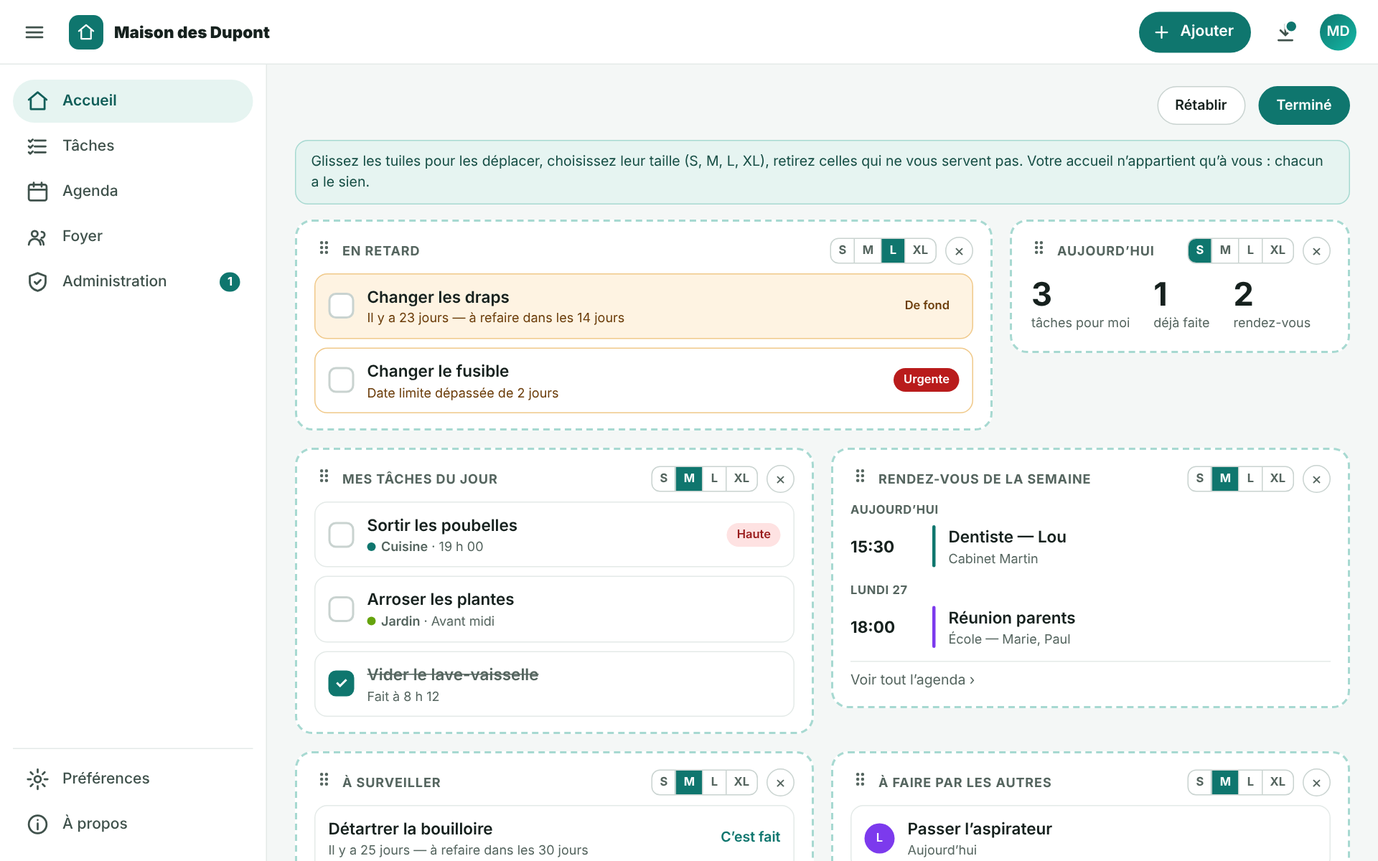
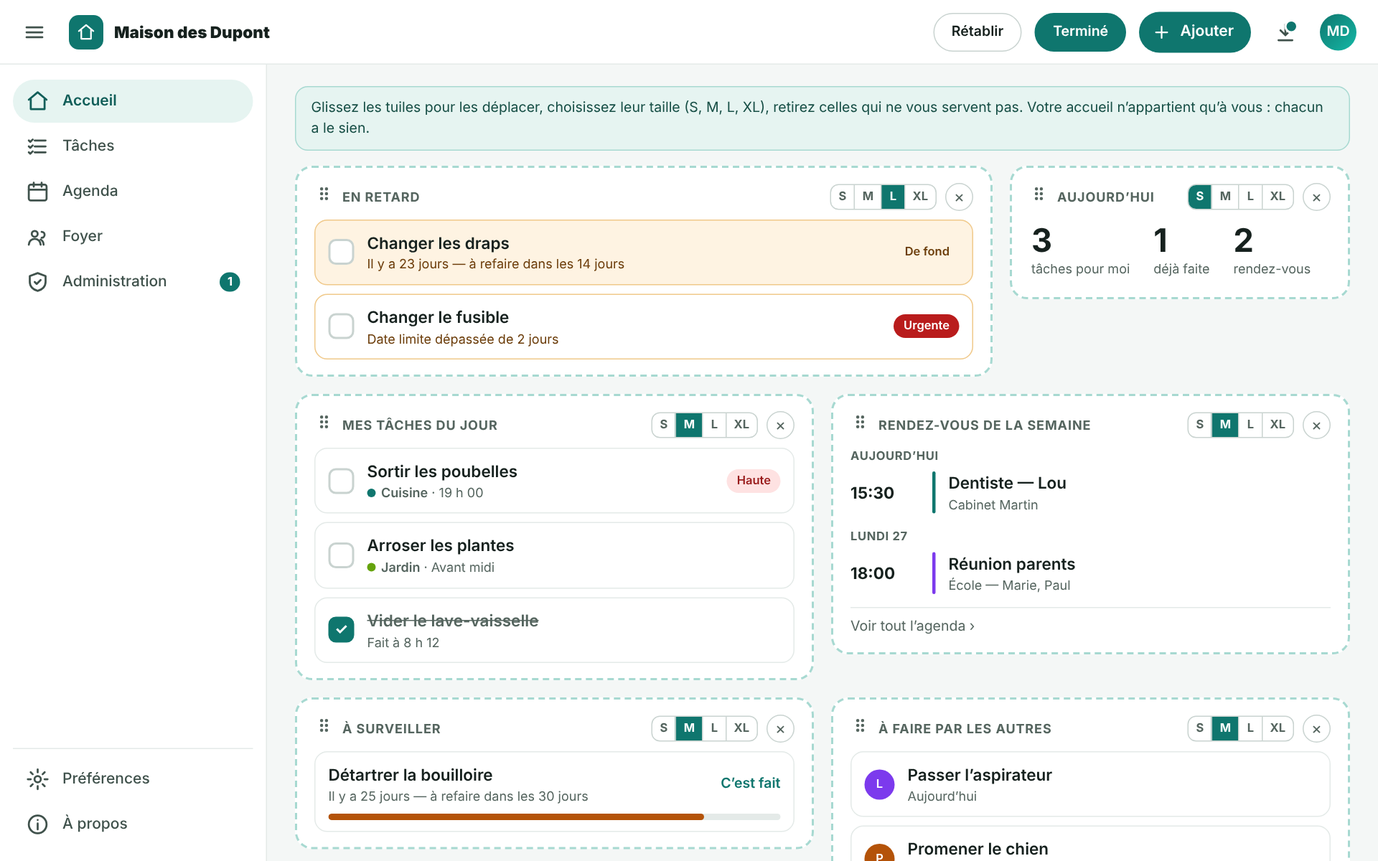
docs(maquettes web): les boutons de l'accueil dans la barre d'outils
Personnaliser, puis Rétablir et Terminé, à gauche d'Ajouter.

Claude-Session: https://claude.ai/code/session_01CwM8UZavZyFdh7jkANxEp5

diff --git a/docs/mockups/cadre/9-accueil-personnaliser.html b/docs/mockups/cadre/9-accueil-personnaliser.html
@@ -4,7 +4,7 @@
 <header class="barre">
   <div class="icone" title="Replier ou déplier le menu"><svg viewBox="0 0 24 24" width="22" height="22" fill="none" stroke="currentColor" stroke-width="2" stroke-linecap="round" stroke-linejoin="round"><path d="M4 7h16M4 12h16M4 17h16"/></svg></div>
   <div class="marque"><span class="logo"><svg viewBox="0 0 24 24" width="18" height="18" fill="none" stroke="currentColor" stroke-width="2" stroke-linecap="round" stroke-linejoin="round"><path d="M3 10.5 12 3l9 7.5"/><path d="M6 9.5V20h12V9.5"/></svg></span><b>Maison des Dupont</b></div>
-  <div class="ajouter"><svg viewBox="0 0 24 24" width="18" height="18" fill="none" stroke="currentColor" stroke-width="2" stroke-linecap="round" stroke-linejoin="round"><path d="M12 5v14M5 12h14"/></svg>Ajouter</div>
+  <span class="bouton">Rétablir</span><span class="bouton primaire">Terminé</span><div class="ajouter"><svg viewBox="0 0 24 24" width="18" height="18" fill="none" stroke="currentColor" stroke-width="2" stroke-linecap="round" stroke-linejoin="round"><path d="M12 5v14M5 12h14"/></svg>Ajouter</div>
   <div class="icone point" title="Mise à jour du serveur disponible"><svg viewBox="0 0 24 24" width="22" height="22" fill="none" stroke="currentColor" stroke-width="2" stroke-linecap="round" stroke-linejoin="round"><path d="M12 4v11M7 10l5 5 5-5M5 20h14"/></svg></div>
   <span class="photo">MD</span>
 </header><div class="dessous"><nav class="nav ">
@@ -12,5 +12,5 @@
   <a class=" point" href="#"><svg viewBox="0 0 24 24" width="22" height="22" fill="none" stroke="currentColor" stroke-width="2" stroke-linecap="round" stroke-linejoin="round"><path d="M12 3 4 6v6c0 4.5 3.4 8 8 9 4.6-1 8-4.5 8-9V6z"/><path d="m9 12 2 2 4-4"/></svg><span>Administration</span><span class="pastille">1</span></a>
   <div class="bas"><a class=" " href="#"><svg viewBox="0 0 24 24" width="22" height="22" fill="none" stroke="currentColor" stroke-width="2" stroke-linecap="round" stroke-linejoin="round"><circle cx="12" cy="12" r="3.2"/><path d="M12 2v3M12 19v3M2 12h3M19 12h3M4.9 4.9l2.1 2.1M17 17l2.1 2.1M4.9 19.1 7 17M17 7l2.1-2.1"/></svg><span>Préférences</span></a><a class=" " href="#"><svg viewBox="0 0 24 24" width="22" height="22" fill="none" stroke="currentColor" stroke-width="2" stroke-linecap="round" stroke-linejoin="round"><circle cx="12" cy="12" r="9"/><path d="M12 11v6M12 7.5h.01"/></svg><span>À propos</span></a></div>
   
-</nav><div class="principal"><main class="contenu" style="gap:14px;padding:20px 26px;overflow:hidden"><div class="entete-page" style="align-items:center"><span style="flex:1"></span><span class="bouton">Rétablir</span><span class="bouton primaire">Terminé</span></div><div class="bandeau-edition">Glissez les tuiles pour les déplacer, choisissez leur taille (S, M, L, XL), retirez celles qui ne vous servent pas. Votre accueil n’appartient qu’à vous : chacun a le sien.</div><div class="tuiles edition"><section class="tuile t8"><div class="tete"><span class="poignee"><svg viewBox="0 0 24 24" width="18" height="18" fill="none" stroke="currentColor" stroke-width="2" stroke-linecap="round" stroke-linejoin="round"><circle cx="9" cy="6" r="1"/><circle cx="15" cy="6" r="1"/><circle cx="9" cy="12" r="1"/><circle cx="15" cy="12" r="1"/><circle cx="9" cy="18" r="1"/><circle cx="15" cy="18" r="1"/></svg></span><h2>En retard</h2><div class="tailles"><span class="">S</span><span class="">M</span><span class="actif">L</span><span class="">XL</span></div><span class="retirer">×</span></div><div class="carte retard fond"><div class="ligne"><div class="case"></div><div style="flex:1;min-width:0"><h3>Changer les draps</h3><p class="muet alerte">Il y a 23 jours — à refaire dans les 14 jours</p></div><span class="etiquette fond">De fond</span></div></div><div class="carte retard"><div class="ligne"><div class="case"></div><div style="flex:1;min-width:0"><h3>Changer le fusible</h3><p class="muet alerte">Date limite dépassée de 2 jours</p></div><span class="etiquette urgente">Urgente</span></div></div></section><section class="tuile t4"><div class="tete"><span class="poignee"><svg viewBox="0 0 24 24" width="18" height="18" fill="none" stroke="currentColor" stroke-width="2" stroke-linecap="round" stroke-linejoin="round"><circle cx="9" cy="6" r="1"/><circle cx="15" cy="6" r="1"/><circle cx="9" cy="12" r="1"/><circle cx="15" cy="12" r="1"/><circle cx="9" cy="18" r="1"/><circle cx="15" cy="18" r="1"/></svg></span><h2>Aujourd’hui</h2><div class="tailles"><span class="actif">S</span><span class="">M</span><span class="">L</span><span class="">XL</span></div><span class="retirer">×</span></div><div class="ligne" style="gap:22px;padding:4px 2px"><div><div class="chiffre">3</div><p class="muet">tâches pour moi</p></div><div><div class="chiffre" style="color:var(--succes)">1</div><p class="muet">déjà faite</p></div><div><div class="chiffre">2</div><p class="muet">rendez-vous</p></div></div></section><section class="tuile t6"><div class="tete"><span class="poignee"><svg viewBox="0 0 24 24" width="18" height="18" fill="none" stroke="currentColor" stroke-width="2" stroke-linecap="round" stroke-linejoin="round"><circle cx="9" cy="6" r="1"/><circle cx="15" cy="6" r="1"/><circle cx="9" cy="12" r="1"/><circle cx="15" cy="12" r="1"/><circle cx="9" cy="18" r="1"/><circle cx="15" cy="18" r="1"/></svg></span><h2>Mes tâches du jour</h2><div class="tailles"><span class="">S</span><span class="actif">M</span><span class="">L</span><span class="">XL</span></div><span class="retirer">×</span></div><div class="carte"><div class="ligne"><div class="case"></div><div style="flex:1;min-width:0"><h3>Sortir les poubelles</h3><p class="muet "><span class="groupe-tache"><i style="background:#0F766E"></i>Cuisine</span> · 19 h 00</p></div><span class="etiquette haute">Haute</span></div></div><div class="carte"><div class="ligne"><div class="case"></div><div style="flex:1;min-width:0"><h3>Arroser les plantes</h3><p class="muet "><span class="groupe-tache"><i style="background:#65A30D"></i>Jardin</span> · Avant midi</p></div></div></div><div class="carte fait"><div class="ligne"><div class="case cochee">✓</div><div style="flex:1;min-width:0"><h3>Vider le lave-vaisselle</h3><p class="muet ">Fait à 8 h 12</p></div></div></div></section><section class="tuile t6"><div class="tete"><span class="poignee"><svg viewBox="0 0 24 24" width="18" height="18" fill="none" stroke="currentColor" stroke-width="2" stroke-linecap="round" stroke-linejoin="round"><circle cx="9" cy="6" r="1"/><circle cx="15" cy="6" r="1"/><circle cx="9" cy="12" r="1"/><circle cx="15" cy="12" r="1"/><circle cx="9" cy="18" r="1"/><circle cx="15" cy="18" r="1"/></svg></span><h2>Rendez-vous de la semaine</h2><div class="tailles"><span class="">S</span><span class="actif">M</span><span class="">L</span><span class="">XL</span></div><span class="retirer">×</span></div><div><div class="jour-rdv" style="padding-top:0">Aujourd’hui</div><div class="rdv"><span class="heure">15:30</span><span class="trait" style="background:#0F766E"></span><div><h3>Dentiste — Lou</h3><p class="muet">Cabinet Martin</p></div></div><div class="jour-rdv">Lundi 27</div><div class="rdv"><span class="heure">18:00</span><span class="trait" style="background:#7C3AED"></span><div><h3>Réunion parents</h3><p class="muet">École — Marie, Paul</p></div></div><div class="lien">Voir tout l’agenda ›</div></div></section><section class="tuile t6"><div class="tete"><span class="poignee"><svg viewBox="0 0 24 24" width="18" height="18" fill="none" stroke="currentColor" stroke-width="2" stroke-linecap="round" stroke-linejoin="round"><circle cx="9" cy="6" r="1"/><circle cx="15" cy="6" r="1"/><circle cx="9" cy="12" r="1"/><circle cx="15" cy="12" r="1"/><circle cx="9" cy="18" r="1"/><circle cx="15" cy="18" r="1"/></svg></span><h2>À surveiller</h2><div class="tailles"><span class="">S</span><span class="actif">M</span><span class="">L</span><span class="">XL</span></div><span class="retirer">×</span></div><div class="carte"><div class="ligne"><div style="flex:1"><h3>Détartrer la bouilloire</h3><p class="muet">Il y a 25 jours — à refaire dans les 30 jours</p></div><span style="font-size:13px;font-weight:600;color:var(--accent)">C’est fait</span></div><div class="jauge"><span style="width:83%;background:#B45309"></span></div></div></section><section class="tuile t6"><div class="tete"><span class="poignee"><svg viewBox="0 0 24 24" width="18" height="18" fill="none" stroke="currentColor" stroke-width="2" stroke-linecap="round" stroke-linejoin="round"><circle cx="9" cy="6" r="1"/><circle cx="15" cy="6" r="1"/><circle cx="9" cy="12" r="1"/><circle cx="15" cy="12" r="1"/><circle cx="9" cy="18" r="1"/><circle cx="15" cy="18" r="1"/></svg></span><h2>À faire par les autres</h2><div class="tailles"><span class="">S</span><span class="actif">M</span><span class="">L</span><span class="">XL</span></div><span class="retirer">×</span></div><div class="carte"><div class="ligne"><span class="photo" style="width:28px;height:28px;font-size:11px;background:#7C3AED">L</span><div style="flex:1"><h3>Passer l’aspirateur</h3><p class="muet">Aujourd’hui</p></div></div></div><div class="carte"><div class="ligne"><span class="photo" style="width:28px;height:28px;font-size:11px;background:#B45309">P</span><div style="flex:1"><h3>Promener le chien</h3><p class="muet">18 h 30</p></div></div></div></section><div class="ajout-tuile"><span style="font-size:26px;line-height:1">+</span>Ajouter une tuile</div></div></main></div></div>
+</nav><div class="principal"><main class="contenu" style="gap:14px;padding:20px 26px;overflow:hidden"><div class="bandeau-edition">Glissez les tuiles pour les déplacer, choisissez leur taille (S, M, L, XL), retirez celles qui ne vous servent pas. Votre accueil n’appartient qu’à vous : chacun a le sien.</div><div class="tuiles edition"><section class="tuile t8"><div class="tete"><span class="poignee"><svg viewBox="0 0 24 24" width="18" height="18" fill="none" stroke="currentColor" stroke-width="2" stroke-linecap="round" stroke-linejoin="round"><circle cx="9" cy="6" r="1"/><circle cx="15" cy="6" r="1"/><circle cx="9" cy="12" r="1"/><circle cx="15" cy="12" r="1"/><circle cx="9" cy="18" r="1"/><circle cx="15" cy="18" r="1"/></svg></span><h2>En retard</h2><div class="tailles"><span class="">S</span><span class="">M</span><span class="actif">L</span><span class="">XL</span></div><span class="retirer">×</span></div><div class="carte retard fond"><div class="ligne"><div class="case"></div><div style="flex:1;min-width:0"><h3>Changer les draps</h3><p class="muet alerte">Il y a 23 jours — à refaire dans les 14 jours</p></div><span class="etiquette fond">De fond</span></div></div><div class="carte retard"><div class="ligne"><div class="case"></div><div style="flex:1;min-width:0"><h3>Changer le fusible</h3><p class="muet alerte">Date limite dépassée de 2 jours</p></div><span class="etiquette urgente">Urgente</span></div></div></section><section class="tuile t4"><div class="tete"><span class="poignee"><svg viewBox="0 0 24 24" width="18" height="18" fill="none" stroke="currentColor" stroke-width="2" stroke-linecap="round" stroke-linejoin="round"><circle cx="9" cy="6" r="1"/><circle cx="15" cy="6" r="1"/><circle cx="9" cy="12" r="1"/><circle cx="15" cy="12" r="1"/><circle cx="9" cy="18" r="1"/><circle cx="15" cy="18" r="1"/></svg></span><h2>Aujourd’hui</h2><div class="tailles"><span class="actif">S</span><span class="">M</span><span class="">L</span><span class="">XL</span></div><span class="retirer">×</span></div><div class="ligne" style="gap:22px;padding:4px 2px"><div><div class="chiffre">3</div><p class="muet">tâches pour moi</p></div><div><div class="chiffre" style="color:var(--succes)">1</div><p class="muet">déjà faite</p></div><div><div class="chiffre">2</div><p class="muet">rendez-vous</p></div></div></section><section class="tuile t6"><div class="tete"><span class="poignee"><svg viewBox="0 0 24 24" width="18" height="18" fill="none" stroke="currentColor" stroke-width="2" stroke-linecap="round" stroke-linejoin="round"><circle cx="9" cy="6" r="1"/><circle cx="15" cy="6" r="1"/><circle cx="9" cy="12" r="1"/><circle cx="15" cy="12" r="1"/><circle cx="9" cy="18" r="1"/><circle cx="15" cy="18" r="1"/></svg></span><h2>Mes tâches du jour</h2><div class="tailles"><span class="">S</span><span class="actif">M</span><span class="">L</span><span class="">XL</span></div><span class="retirer">×</span></div><div class="carte"><div class="ligne"><div class="case"></div><div style="flex:1;min-width:0"><h3>Sortir les poubelles</h3><p class="muet "><span class="groupe-tache"><i style="background:#0F766E"></i>Cuisine</span> · 19 h 00</p></div><span class="etiquette haute">Haute</span></div></div><div class="carte"><div class="ligne"><div class="case"></div><div style="flex:1;min-width:0"><h3>Arroser les plantes</h3><p class="muet "><span class="groupe-tache"><i style="background:#65A30D"></i>Jardin</span> · Avant midi</p></div></div></div><div class="carte fait"><div class="ligne"><div class="case cochee">✓</div><div style="flex:1;min-width:0"><h3>Vider le lave-vaisselle</h3><p class="muet ">Fait à 8 h 12</p></div></div></div></section><section class="tuile t6"><div class="tete"><span class="poignee"><svg viewBox="0 0 24 24" width="18" height="18" fill="none" stroke="currentColor" stroke-width="2" stroke-linecap="round" stroke-linejoin="round"><circle cx="9" cy="6" r="1"/><circle cx="15" cy="6" r="1"/><circle cx="9" cy="12" r="1"/><circle cx="15" cy="12" r="1"/><circle cx="9" cy="18" r="1"/><circle cx="15" cy="18" r="1"/></svg></span><h2>Rendez-vous de la semaine</h2><div class="tailles"><span class="">S</span><span class="actif">M</span><span class="">L</span><span class="">XL</span></div><span class="retirer">×</span></div><div><div class="jour-rdv" style="padding-top:0">Aujourd’hui</div><div class="rdv"><span class="heure">15:30</span><span class="trait" style="background:#0F766E"></span><div><h3>Dentiste — Lou</h3><p class="muet">Cabinet Martin</p></div></div><div class="jour-rdv">Lundi 27</div><div class="rdv"><span class="heure">18:00</span><span class="trait" style="background:#7C3AED"></span><div><h3>Réunion parents</h3><p class="muet">École — Marie, Paul</p></div></div><div class="lien">Voir tout l’agenda ›</div></div></section><section class="tuile t6"><div class="tete"><span class="poignee"><svg viewBox="0 0 24 24" width="18" height="18" fill="none" stroke="currentColor" stroke-width="2" stroke-linecap="round" stroke-linejoin="round"><circle cx="9" cy="6" r="1"/><circle cx="15" cy="6" r="1"/><circle cx="9" cy="12" r="1"/><circle cx="15" cy="12" r="1"/><circle cx="9" cy="18" r="1"/><circle cx="15" cy="18" r="1"/></svg></span><h2>À surveiller</h2><div class="tailles"><span class="">S</span><span class="actif">M</span><span class="">L</span><span class="">XL</span></div><span class="retirer">×</span></div><div class="carte"><div class="ligne"><div style="flex:1"><h3>Détartrer la bouilloire</h3><p class="muet">Il y a 25 jours — à refaire dans les 30 jours</p></div><span style="font-size:13px;font-weight:600;color:var(--accent)">C’est fait</span></div><div class="jauge"><span style="width:83%;background:#B45309"></span></div></div></section><section class="tuile t6"><div class="tete"><span class="poignee"><svg viewBox="0 0 24 24" width="18" height="18" fill="none" stroke="currentColor" stroke-width="2" stroke-linecap="round" stroke-linejoin="round"><circle cx="9" cy="6" r="1"/><circle cx="15" cy="6" r="1"/><circle cx="9" cy="12" r="1"/><circle cx="15" cy="12" r="1"/><circle cx="9" cy="18" r="1"/><circle cx="15" cy="18" r="1"/></svg></span><h2>À faire par les autres</h2><div class="tailles"><span class="">S</span><span class="actif">M</span><span class="">L</span><span class="">XL</span></div><span class="retirer">×</span></div><div class="carte"><div class="ligne"><span class="photo" style="width:28px;height:28px;font-size:11px;background:#7C3AED">L</span><div style="flex:1"><h3>Passer l’aspirateur</h3><p class="muet">Aujourd’hui</p></div></div></div><div class="carte"><div class="ligne"><span class="photo" style="width:28px;height:28px;font-size:11px;background:#B45309">P</span><div style="flex:1"><h3>Promener le chien</h3><p class="muet">18 h 30</p></div></div></div></section><div class="ajout-tuile"><span style="font-size:26px;line-height:1">+</span>Ajouter une tuile</div></div></main></div></div>
 </body></html>

diff --git a/docs/mockups/cadre/8-accueil-tuiles.html b/docs/mockups/cadre/8-accueil-tuiles.html
@@ -4,7 +4,7 @@
 <header class="barre">
   <div class="icone" title="Replier ou déplier le menu"><svg viewBox="0 0 24 24" width="22" height="22" fill="none" stroke="currentColor" stroke-width="2" stroke-linecap="round" stroke-linejoin="round"><path d="M4 7h16M4 12h16M4 17h16"/></svg></div>
   <div class="marque"><span class="logo"><svg viewBox="0 0 24 24" width="18" height="18" fill="none" stroke="currentColor" stroke-width="2" stroke-linecap="round" stroke-linejoin="round"><path d="M3 10.5 12 3l9 7.5"/><path d="M6 9.5V20h12V9.5"/></svg></span><b>Maison des Dupont</b></div>
-  <div class="ajouter"><svg viewBox="0 0 24 24" width="18" height="18" fill="none" stroke="currentColor" stroke-width="2" stroke-linecap="round" stroke-linejoin="round"><path d="M12 5v14M5 12h14"/></svg>Ajouter</div>
+  <span class="personnaliser"><svg viewBox="0 0 24 24" width="16" height="16" fill="none" stroke="currentColor" stroke-width="2" stroke-linecap="round" stroke-linejoin="round"><path d="M4 20h4L19 9l-4-4L4 16z"/></svg>Personnaliser</span><div class="ajouter"><svg viewBox="0 0 24 24" width="18" height="18" fill="none" stroke="currentColor" stroke-width="2" stroke-linecap="round" stroke-linejoin="round"><path d="M12 5v14M5 12h14"/></svg>Ajouter</div>
   <div class="icone point" title="Mise à jour du serveur disponible"><svg viewBox="0 0 24 24" width="22" height="22" fill="none" stroke="currentColor" stroke-width="2" stroke-linecap="round" stroke-linejoin="round"><path d="M12 4v11M7 10l5 5 5-5M5 20h14"/></svg></div>
   <span class="photo">MD</span>
 </header><div class="dessous"><nav class="nav ">
@@ -12,5 +12,5 @@
   <a class=" point" href="#"><svg viewBox="0 0 24 24" width="22" height="22" fill="none" stroke="currentColor" stroke-width="2" stroke-linecap="round" stroke-linejoin="round"><path d="M12 3 4 6v6c0 4.5 3.4 8 8 9 4.6-1 8-4.5 8-9V6z"/><path d="m9 12 2 2 4-4"/></svg><span>Administration</span><span class="pastille">1</span></a>
   <div class="bas"><a class=" " href="#"><svg viewBox="0 0 24 24" width="22" height="22" fill="none" stroke="currentColor" stroke-width="2" stroke-linecap="round" stroke-linejoin="round"><circle cx="12" cy="12" r="3.2"/><path d="M12 2v3M12 19v3M2 12h3M19 12h3M4.9 4.9l2.1 2.1M17 17l2.1 2.1M4.9 19.1 7 17M17 7l2.1-2.1"/></svg><span>Préférences</span></a><a class=" " href="#"><svg viewBox="0 0 24 24" width="22" height="22" fill="none" stroke="currentColor" stroke-width="2" stroke-linecap="round" stroke-linejoin="round"><circle cx="12" cy="12" r="9"/><path d="M12 11v6M12 7.5h.01"/></svg><span>À propos</span></a></div>
   
-</nav><div class="principal"><main class="contenu" style="gap:14px;padding:20px 26px;overflow:hidden"><div class="entete-page" style="align-items:center"><span style="flex:1"></span><span class="personnaliser"><svg viewBox="0 0 24 24" width="16" height="16" fill="none" stroke="currentColor" stroke-width="2" stroke-linecap="round" stroke-linejoin="round"><path d="M4 20h4L19 9l-4-4L4 16z"/></svg>Personnaliser</span></div><div class="tuiles"><section class="tuile t8"><div class="tete"><h2>En retard</h2><span class="compte">2</span></div><div class="carte retard fond"><div class="ligne"><div class="case"></div><div style="flex:1;min-width:0"><h3>Changer les draps</h3><p class="muet alerte">Il y a 23 jours — à refaire dans les 14 jours</p></div><span class="etiquette fond">De fond</span></div></div><div class="carte retard"><div class="ligne"><div class="case"></div><div style="flex:1;min-width:0"><h3>Changer le fusible</h3><p class="muet alerte">Date limite dépassée de 2 jours</p></div><span class="etiquette urgente">Urgente</span></div></div></section><section class="tuile t4"><div class="tete"><h2>Aujourd’hui</h2><span class="compte"></span></div><div class="ligne" style="gap:22px;padding:4px 2px"><div><div class="chiffre">3</div><p class="muet">tâches pour moi</p></div><div><div class="chiffre" style="color:var(--succes)">1</div><p class="muet">déjà faite</p></div><div><div class="chiffre">2</div><p class="muet">rendez-vous</p></div></div></section><section class="tuile t6"><div class="tete"><h2>Mes tâches du jour</h2><span class="compte">3</span></div><div class="carte"><div class="ligne"><div class="case"></div><div style="flex:1;min-width:0"><h3>Sortir les poubelles</h3><p class="muet "><span class="groupe-tache"><i style="background:#0F766E"></i>Cuisine</span> · 19 h 00</p></div><span class="etiquette haute">Haute</span></div></div><div class="carte"><div class="ligne"><div class="case"></div><div style="flex:1;min-width:0"><h3>Arroser les plantes</h3><p class="muet "><span class="groupe-tache"><i style="background:#65A30D"></i>Jardin</span> · Avant midi</p></div></div></div><div class="carte fait"><div class="ligne"><div class="case cochee">✓</div><div style="flex:1;min-width:0"><h3>Vider le lave-vaisselle</h3><p class="muet ">Fait à 8 h 12</p></div></div></div></section><section class="tuile t6"><div class="tete"><h2>Rendez-vous de la semaine</h2><span class="compte"></span></div><div><div class="jour-rdv" style="padding-top:0">Aujourd’hui</div><div class="rdv"><span class="heure">15:30</span><span class="trait" style="background:#0F766E"></span><div><h3>Dentiste — Lou</h3><p class="muet">Cabinet Martin</p></div></div><div class="jour-rdv">Lundi 27</div><div class="rdv"><span class="heure">18:00</span><span class="trait" style="background:#7C3AED"></span><div><h3>Réunion parents</h3><p class="muet">École — Marie, Paul</p></div></div><div class="lien">Voir tout l’agenda ›</div></div></section><section class="tuile t6"><div class="tete"><h2>À surveiller</h2><span class="compte">1</span></div><div class="carte"><div class="ligne"><div style="flex:1"><h3>Détartrer la bouilloire</h3><p class="muet">Il y a 25 jours — à refaire dans les 30 jours</p></div><span style="font-size:13px;font-weight:600;color:var(--accent)">C’est fait</span></div><div class="jauge"><span style="width:83%;background:#B45309"></span></div></div></section><section class="tuile t6"><div class="tete"><h2>À faire par les autres</h2><span class="compte">2</span></div><div class="carte"><div class="ligne"><span class="photo" style="width:28px;height:28px;font-size:11px;background:#7C3AED">L</span><div style="flex:1"><h3>Passer l’aspirateur</h3><p class="muet">Aujourd’hui</p></div></div></div><div class="carte"><div class="ligne"><span class="photo" style="width:28px;height:28px;font-size:11px;background:#B45309">P</span><div style="flex:1"><h3>Promener le chien</h3><p class="muet">18 h 30</p></div></div></div></section></div></main></div></div>
+</nav><div class="principal"><main class="contenu" style="gap:14px;padding:20px 26px;overflow:hidden"><div class="tuiles"><section class="tuile t8"><div class="tete"><h2>En retard</h2><span class="compte">2</span></div><div class="carte retard fond"><div class="ligne"><div class="case"></div><div style="flex:1;min-width:0"><h3>Changer les draps</h3><p class="muet alerte">Il y a 23 jours — à refaire dans les 14 jours</p></div><span class="etiquette fond">De fond</span></div></div><div class="carte retard"><div class="ligne"><div class="case"></div><div style="flex:1;min-width:0"><h3>Changer le fusible</h3><p class="muet alerte">Date limite dépassée de 2 jours</p></div><span class="etiquette urgente">Urgente</span></div></div></section><section class="tuile t4"><div class="tete"><h2>Aujourd’hui</h2><span class="compte"></span></div><div class="ligne" style="gap:22px;padding:4px 2px"><div><div class="chiffre">3</div><p class="muet">tâches pour moi</p></div><div><div class="chiffre" style="color:var(--succes)">1</div><p class="muet">déjà faite</p></div><div><div class="chiffre">2</div><p class="muet">rendez-vous</p></div></div></section><section class="tuile t6"><div class="tete"><h2>Mes tâches du jour</h2><span class="compte">3</span></div><div class="carte"><div class="ligne"><div class="case"></div><div style="flex:1;min-width:0"><h3>Sortir les poubelles</h3><p class="muet "><span class="groupe-tache"><i style="background:#0F766E"></i>Cuisine</span> · 19 h 00</p></div><span class="etiquette haute">Haute</span></div></div><div class="carte"><div class="ligne"><div class="case"></div><div style="flex:1;min-width:0"><h3>Arroser les plantes</h3><p class="muet "><span class="groupe-tache"><i style="background:#65A30D"></i>Jardin</span> · Avant midi</p></div></div></div><div class="carte fait"><div class="ligne"><div class="case cochee">✓</div><div style="flex:1;min-width:0"><h3>Vider le lave-vaisselle</h3><p class="muet ">Fait à 8 h 12</p></div></div></div></section><section class="tuile t6"><div class="tete"><h2>Rendez-vous de la semaine</h2><span class="compte"></span></div><div><div class="jour-rdv" style="padding-top:0">Aujourd’hui</div><div class="rdv"><span class="heure">15:30</span><span class="trait" style="background:#0F766E"></span><div><h3>Dentiste — Lou</h3><p class="muet">Cabinet Martin</p></div></div><div class="jour-rdv">Lundi 27</div><div class="rdv"><span class="heure">18:00</span><span class="trait" style="background:#7C3AED"></span><div><h3>Réunion parents</h3><p class="muet">École — Marie, Paul</p></div></div><div class="lien">Voir tout l’agenda ›</div></div></section><section class="tuile t6"><div class="tete"><h2>À surveiller</h2><span class="compte">1</span></div><div class="carte"><div class="ligne"><div style="flex:1"><h3>Détartrer la bouilloire</h3><p class="muet">Il y a 25 jours — à refaire dans les 30 jours</p></div><span style="font-size:13px;font-weight:600;color:var(--accent)">C’est fait</span></div><div class="jauge"><span style="width:83%;background:#B45309"></span></div></div></section><section class="tuile t6"><div class="tete"><h2>À faire par les autres</h2><span class="compte">2</span></div><div class="carte"><div class="ligne"><span class="photo" style="width:28px;height:28px;font-size:11px;background:#7C3AED">L</span><div style="flex:1"><h3>Passer l’aspirateur</h3><p class="muet">Aujourd’hui</p></div></div></div><div class="carte"><div class="ligne"><span class="photo" style="width:28px;height:28px;font-size:11px;background:#B45309">P</span><div style="flex:1"><h3>Promener le chien</h3><p class="muet">18 h 30</p></div></div></div></section></div></main></div></div>
 </body></html>

diff --git a/docs/mockups/cadre/README.md b/docs/mockups/cadre/README.md
@@ -28,7 +28,9 @@ node docs/mockups/cadre/rendre.js   # 1280 × 800 pour l'ordinateur, 390 × 844 
   n'apparaît qu'aux comptes qui ont au moins un de ces droits, et chaque rubrique
   seulement à qui en a le droit — absente, pas grisée.
 - **L'accueil est fait de tuiles**, que chacun dispose à sa façon : l'ordre, la
-  taille et les tuiles affichées appartiennent au compte, pas au foyer.
+  taille et les tuiles affichées appartiennent au compte, pas au foyer. Ses boutons
+  (Personnaliser, puis Rétablir et Terminé) sont dans la barre d'outils, à gauche
+  d'Ajouter : les tuiles commencent tout en haut.
 - **Repliable** sur ordinateur ; le choix est retenu d'une visite à l'autre.
 - **La barre d'outils est au-dessus de tout**, sur toute la largeur : le bouton ☰
   qui replie la navigation, le foyer, puis Ajouter, la mise à jour du serveur quand
